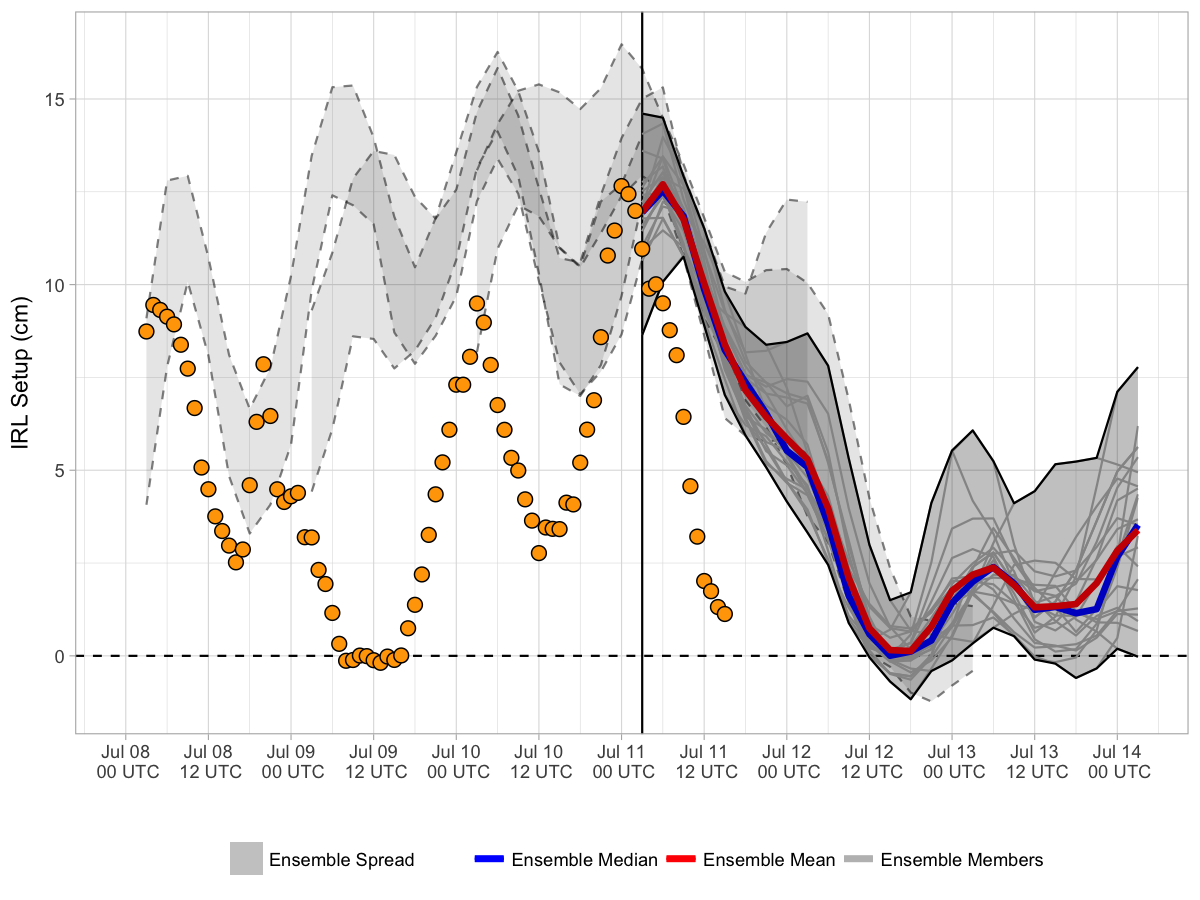
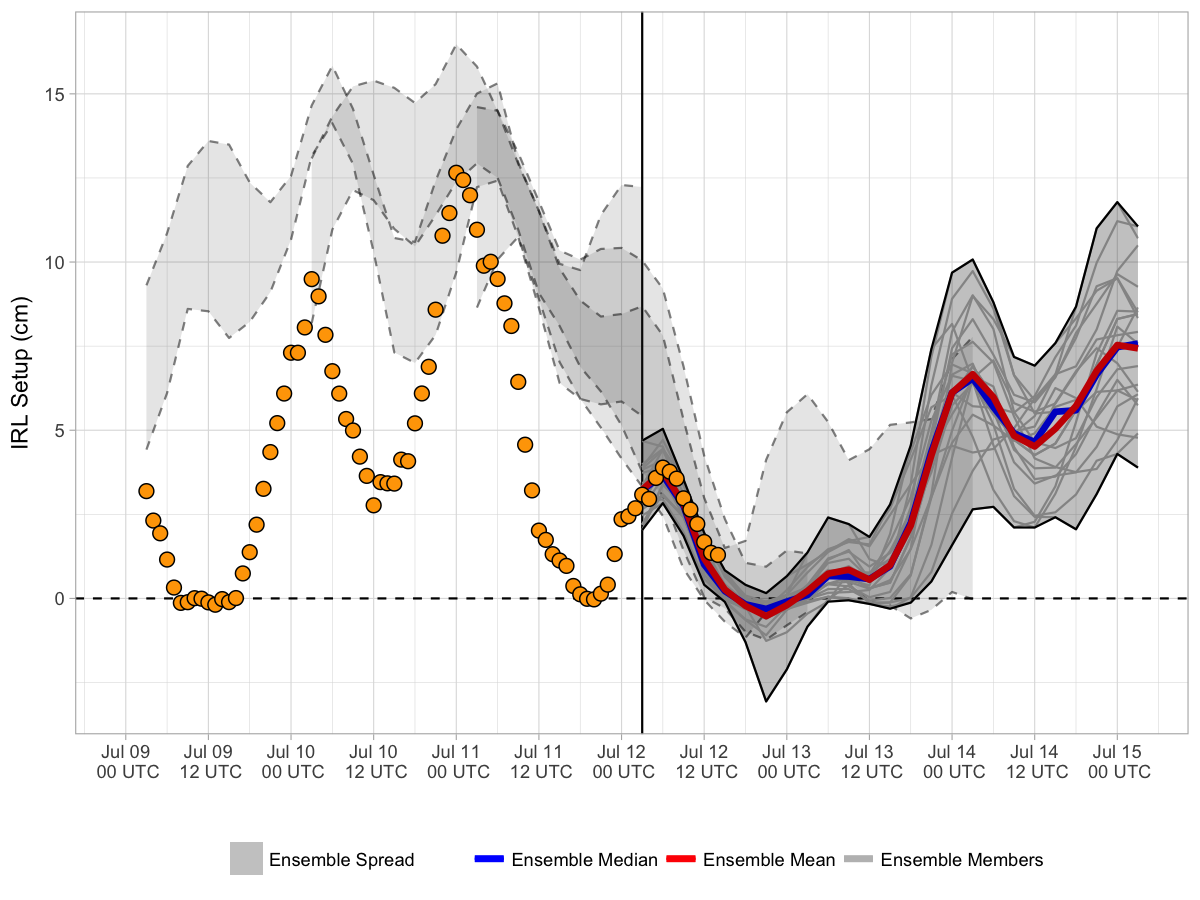
20170712 forecast update

diff --git a/docs/index.md b/docs/index.md
@@ -3,7 +3,7 @@ Current Forecast
 
 [![](img/raw_setup.png)](https://bhlmn.github.io/IRLSetup/img/raw_setup.png)
 
-> Forecast valid 2017-07-11 11:50:36.
+> Forecast valid 2017-07-12 10:57:25.
 
 Explanation
 -----------
@@ -17,7 +17,7 @@ star), and Sebastian, FL (white star). In general, southerly (northerly)
 winds result in increased water elevation near Titusville (Sebastian)
 and positive (negative) setup.
 
-The current (18 UTC 2017-07-10) 0.5° [Global Ensemble Forecast System
+The current (18 UTC 2017-07-11) 0.5° [Global Ensemble Forecast System
 (GEFS)](https://www.ncdc.noaa.gov/data-access/model-data/model-datasets/global-ensemble-forecast-system-gefs)
 mean and median forecasts of setup are represented by the red and blue
 curves, respectively. Ensemble spread from the current and three
